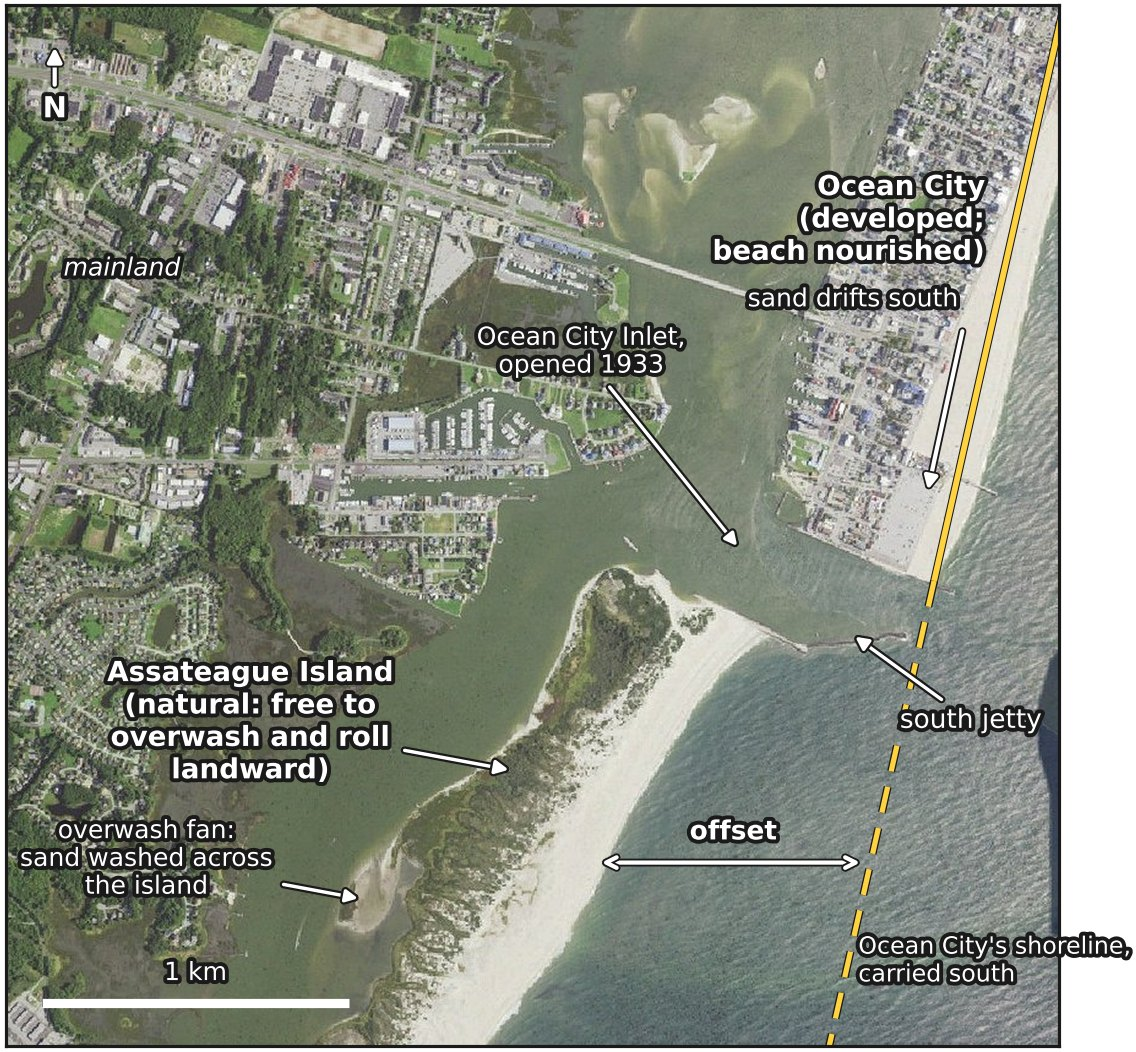
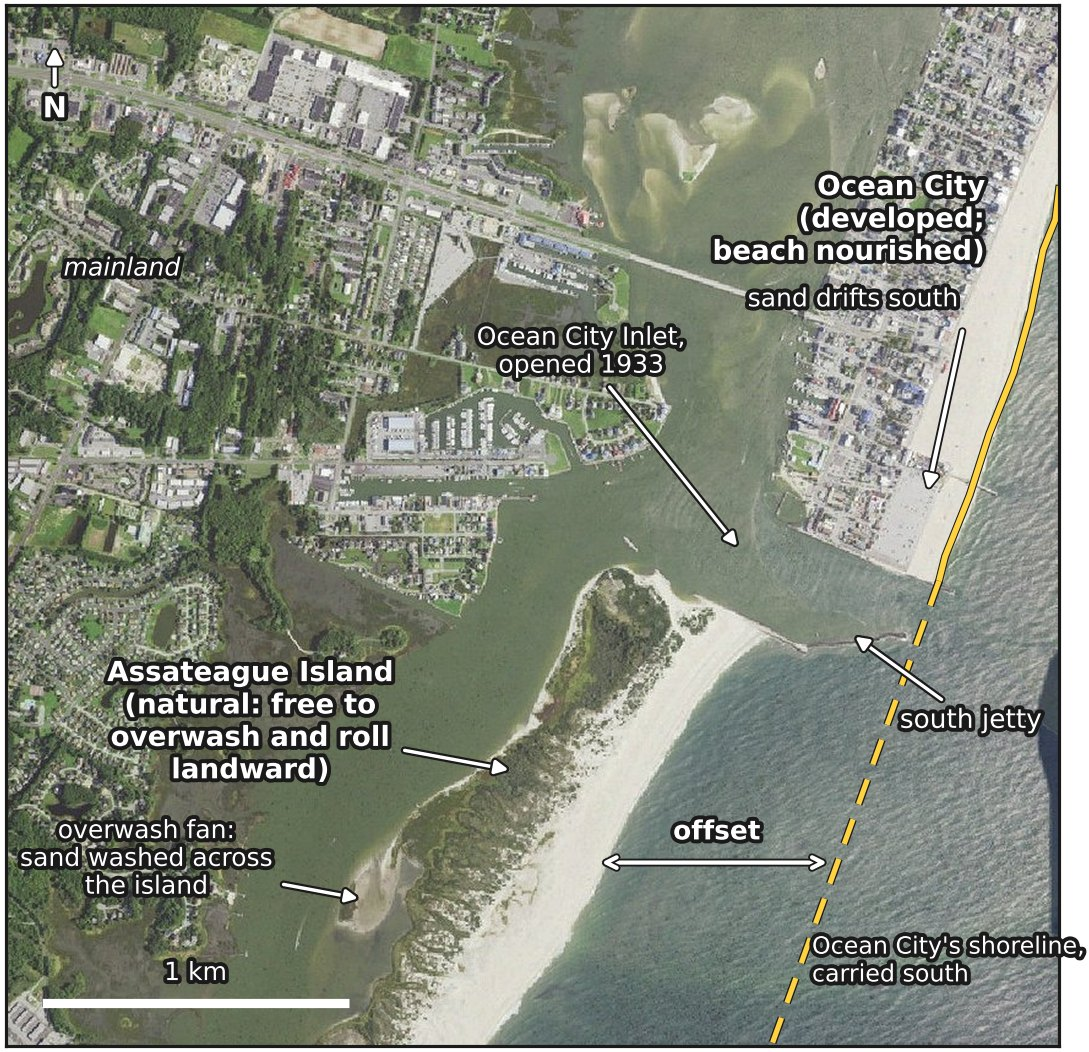
Trace Ocean City's water's edge on the Maryland figure
The yellow line now follows the water's edge along Ocean City instead of a straight line drawn up the dry beach, and the dashed line carries on the trend of its southern half.

diff --git a/tools/hatteras_assateague_figure.py b/tools/hatteras_assateague_figure.py
@@ -22,6 +22,7 @@ import matplotlib
 matplotlib.use("Agg")
 import matplotlib.patheffects as pe
 import matplotlib.pyplot as plt
+import numpy as np
 
 import hatteras_imagery_data as img
 
@@ -33,7 +34,10 @@ HALF_W_M, HALF_H_M = 2200, 2600          # ground metres, before the crop
 PX = (1100, 1300)
 CROP = (0, 0, 860, 850)                  # px: drops the dark mosaic seams offshore and in the south
 TILES = "https://basemap.nationalmap.gov/arcgis/rest/services/USGSImageryOnly/MapServer/tile/{z}/{y}/{x}"
-OC_EDGE = [(864, 0), (758, 470)]         # px on Ocean City's water's edge, read off the photo
+# Ocean City's water's edge, traced by eye on a 20 px grid over the photo (2026-10-04, Hannah: the old two-point line
+# sat 50-60 m up the dry beach); above y 150 the edge runs off the right of the frame
+OC_EDGE = [(860, 150), (857, 175), (847, 200), (837, 250), (823, 300), (803, 350), (787, 400), (767, 450), (762, 470)]
+CARRY_FROM_Y = 300                       # the dashed line carries on the straight trend of the edge south of this row
 ASSA_EDGE_X = 482                        # px: Assateague's water's edge on the offset row (y 700), read off the photo
 
 
@@ -60,9 +64,11 @@ def main():
         s.set_linewidth(1.2)
 
     # Ocean City's shoreline, carried south past the inlet
-    (x0, y0), (x1, y1) = OC_EDGE
-    slope = (x1 - x0) / (y1 - y0)
-    ax.plot([x0, x1], [y0, y1], color="#ffd23f", lw=2.2, path_effects=halo)
+    xs, ys = zip(*OC_EDGE)
+    south = [(x, y) for x, y in OC_EDGE if y >= CARRY_FROM_Y]
+    slope = np.polyfit([y for _, y in south], [x for x, _ in south], 1)[0]
+    x1, y1 = OC_EDGE[-1]
+    ax.plot(xs, ys, color="#ffd23f", lw=2.2, path_effects=halo)
     ax.plot([x1, x1 + slope * (photo.height - y1)], [y1, photo.height], color="#ffd23f", lw=2, ls=(0, (5, 3)), path_effects=halo)
     xe, ye = x1 + slope * (700 - y1), 700
     ax.annotate("", xy=(ASSA_EDGE_X, ye), xytext=(xe - 4, ye), arrowprops=dict(arrowstyle="<->", color="white", lw=1.6, path_effects=halo))
